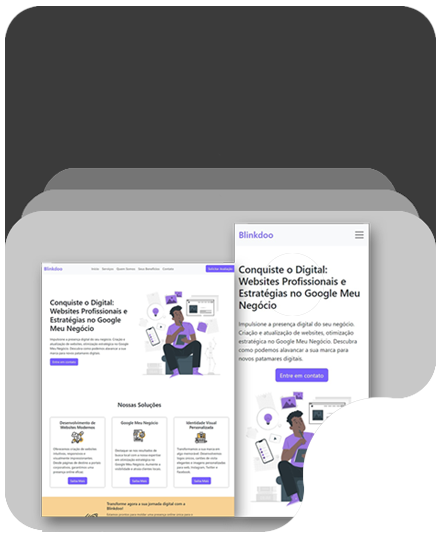
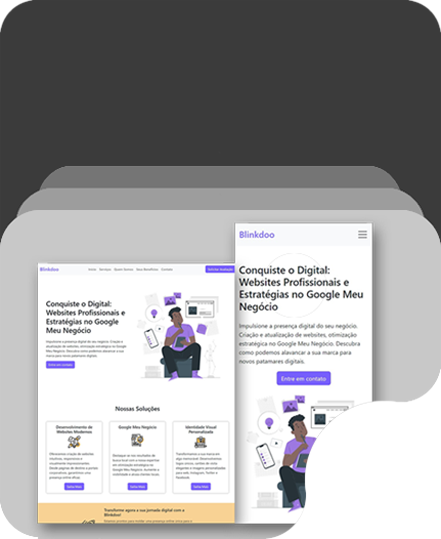
update

diff --git a/index.html b/index.html
@@ -45,7 +45,6 @@
                         <li class="nav-item">
                             <a class="nav-link" href="#">Motivações</a>
                         </li>
-
                     </ul>
                 </div>
             </div>
@@ -54,7 +53,6 @@
     <main>
         <section
             class="container d-flex flex-column flex-lg-row align-items-center text-center text-md-start justify-content-between">
-
             <div class="col-lg-3 order-1 order-lg-0 mt-3 mt-md-0 ">
                 <p>Meu portfólio pessoal, destacando minhas habilidades.</p>
             </div>
@@ -65,29 +63,235 @@
             <div class=" col-lg-3 text-center order-2 order-lg-2">
                 <div class="color-orange fs-1">★★★★★</div>
                 <button class="btn btn-margin">paoskdpo</button>
-                <button class="btn btn-margin">paoskdpo</button>
             </div>
         </section>
-        <section class="container-fluid rounded-5 color-black text-white ">
-            <div class="d-flex flex-column flex-md-row justify-content-between p-4 pt-5 border-bottom border-dark-subtle">
+        <section class="container-fluid rounded-5 color-black text-white pb-3">
+            <div
+                class="d-flex flex-column flex-md-row justify-content-between p-4 pt-5 border-bottom border-dark-subtle">
                 <h2 class="col-12 col-md-6">Minhas Soluções</h2>
                 <p class="col-12 col-md-6 col-lg-3 text-md-end">Algumas soluções que coloco à disposição, sempre
                     priorizando a qualidade em cada projeto.</p>
             </div>
+            <div class="d-flex flex-column flex-lg-row align-items-center justify-content-evenly gap-3 mt-3">
+                <div class="card-solution card d-flex color-black-fade align-items-center">
+                    <h5 class="p-4 col-12 fs-4 position-absolute border-bottom border-dark-subtle text-start z-1">
+                        Landing Page</h5>
+                    <img class="col-12 z-0" src="image/card-landing-page.png" alt="">
+                    <a href="">
+                        <button class="btn-card z-1 fs-1 text-center">
+                            <div class="pb-2">↗</div>
+                        </button>
+                    </a>
+                </div>
+                <div class="card-solution card d-flex  align-items-center">
+                    <h5 class="p-4 col-12 fs-4 position-absolute border-bottom  text-start z-1">Google Meu Negócio </h5>
+                    <img class="col-12 z-0" src="image/card-landing-page-google-meu-negocio.png" alt="">
+                    <a href="">
+                        <button class="btn-card z-1 fs-1 text-center">
+                            <div class="pb-2">↗</div>
+                        </button>
+                    </a>
+                </div>
+                <div class="card-solution card d-flex color-black-fade align-items-center">
+                    <h5 class="p-4 col-12 fs-4 position-absolute border-bottom border-dark-subtle text-start z-1">UI/UX
+                        Design</h5>
+                    <img class="col-12 z-0" src="image/card-ui-ux.png" alt="">
+                    <a href="">
+                        <button class="btn-card z-1 fs-1 text-center">
+                            <div class="pb-2">↗</div>
+                        </button>
+                    </a>
+                </div>
+            </div>
+        </section>
+        <section class="container mt-5">
 
-            <div class="d-flex flex-column flex-lg-row align-items-center justify-content-center gap-3 mt-3">
-                <div class="card-solution card d-flex color-black-fade align-items-center">
-                    <h5 class="p-4 col-12 fs-3 position-absolute border-bottom border-dark-subtle text-start">Landing Page</h5>
-                    <button class="btn-card">o</button>
-                </div>
-                <div class="card-solution card d-flex color-black-fade align-items-center">
-                    <h5 class="p-4 col-12 fs-3 position-absolute border-bottom border-dark-subtle text-start">Landing Page</h5>
-                    <button class="btn-card">o</button>
-                </div>
-                <div class="card-solution card d-flex color-black-fade align-items-center">
-                    <h5 class="p-4 col-12 fs-3 position-absolute border-bottom border-dark-subtle text-start">Landing Page</h5>
-                    <button class="btn-card">o</button>
-                </div>
+            <div class="d-flex flex-column flex-md-row">
+                <img class="col-6 d-none d-lg-block" src="image/skills-2.png" alt="">
+                <div class="col-12 col-lg-6 d-flex flex-column gap-2">
+                    <h2 class="text-center">Minhas habilidades</h2>
+
+
+                    <div class="d-flex flex-column gap-2">
+                        <div class="d-flex flex-column flex-lg-row gap-2">
+                            <div class="col-12 col-lg-6 card card-skill p-3">
+                                <div class="d-flex justify-content-between">
+                                    <div class="d-flex flex-row align-items-center">
+                                        <div class="icon"> <i><img class="col-12" src="image/html.png" alt=""></i>
+                                        </div>
+                                        <div class="ms-2 fw-light">
+                                            <h6 class="mb-0">HTML</h6> <span>Intermediário</span>
+                                        </div>
+                                    </div>
+                                    <div class="badge"> <span>Web</span> </div>
+                                </div>
+                                <div class="mt-4">
+                                    <h3 class="heading fs-4">Linguagem de Marcação</h3>
+                                    <div class="mt-4">
+                                        <div class="progress">
+                                            <div class="progress-bar" role="progressbar" style="width: 85%"
+                                                aria-valuenow="50" aria-valuemin="0" aria-valuemax="100"></div>
+                                        </div>
+                                    </div>
+                                </div>
+                            </div>
+                            <div class="col-12 col-lg-6 card card-skill p-3">
+                                <div class="d-flex justify-content-between">
+                                    <div class="d-flex flex-row align-items-center">
+                                        <div class="icon"> <i><img class="col-12" src="image/css.png" alt=""></i> </div>
+                                        <div class="ms-2 fw-light">
+                                            <h6 class="mb-0">CSS</h6> <span>Intermediário</span>
+                                        </div>
+                                    </div>
+                                    <div class="badge"> <span>Web</span> </div>
+                                </div>
+                                <div class="mt-4">
+                                    <h3 class="heading fs-4">Estilo e Design</h3>
+                                    <div class="mt-4">
+                                        <div class="progress">
+                                            <div class="progress-bar" role="progressbar" style="width: 85%"
+                                                aria-valuenow="50" aria-valuemin="0" aria-valuemax="100"></div>
+                                        </div>
+                                    </div>
+                                </div>
+                            </div>
+                        </div>
+                        <div class="d-flex flex-column flex-lg-row gap-2">
+                            <div class="col-12 col-lg-6 card card-skill p-3">
+                                <div class="d-flex justify-content-between">
+                                    <div class="d-flex flex-row align-items-center">
+                                        <div class="icon"> <i><img class="col-12" src="image/bootstrap.png" alt=""></i>
+                                        </div>
+                                        <div class="ms-2 fw-light">
+                                            <h6 class="mb-0">Bootstrap</h6> <span>Intermediário</span>
+                                        </div>
+                                    </div>
+                                    <div class="badge"> <span>Fw</span> </div>
+                                </div>
+                                <div class="mt-4">
+                                    <h3 class="heading fs-4">Frameworks Front-End</h3>
+                                    <div class="mt-4">
+                                        <div class="progress">
+                                            <div class="progress-bar" role="progressbar" style="width: 60%"
+                                                aria-valuenow="50" aria-valuemin="0" aria-valuemax="100"></div>
+                                        </div>
+                                    </div>
+                                </div>
+                            </div>
+                            <div class="col-12 col-lg-6 card card-skill p-3">
+                                <div class="d-flex justify-content-between">
+                                    <div class="d-flex flex-row align-items-center">
+                                        <div class="icon"> <i><img class="col-12" src="image/javascript.png" alt=""></i>
+                                        </div>
+                                        <div class="ms-2 fw-light">
+                                            <h6 class="mb-0">JavaScript</h6> <span>Intermediário</span>
+                                        </div>
+                                    </div>
+                                    <div class="badge"> <span>Web</span> </div>
+                                </div>
+                                <div class="mt-4">
+                                    <h3 class="heading fs-4">Desenvolvimento Web</h3>
+                                    <div class="mt-4">
+                                        <div class="progress">
+                                            <div class="progress-bar" role="progressbar" style="width: 35%"
+                                                aria-valuenow="50" aria-valuemin="0" aria-valuemax="100"></div>
+                                        </div>
+                                    </div>
+                                </div>
+                            </div>
+                        </div>
+                        <div class="d-flex flex-column flex-lg-row gap-2">
+                            <div class="col-12 col-lg-6 card card-skill p-3">
+                                <div class="d-flex justify-content-between">
+                                    <div class="d-flex flex-row align-items-center">
+                                        <div class="icon"> <i><img class="col-12" src="image/photoshop.png" alt=""></i>
+                                        </div>
+                                        <div class="ms-2 fw-light">
+                                            <h6 class="mb-0">Photoshop</h6> <span>Intermediário</span>
+                                        </div>
+                                    </div>
+                                    <div class="badge"> <span>Design</span> </div>
+                                </div>
+                                <div class="mt-4">
+                                    <h3 class="heading fs-4">Edição de imagens</h3>
+                                    <div class="mt-4">
+                                        <div class="progress">
+                                            <div class="progress-bar" role="progressbar" style="width: 50%"
+                                                aria-valuenow="50" aria-valuemin="0" aria-valuemax="100"></div>
+                                        </div>
+                                    </div>
+                                </div>
+                            </div>
+                            <div class="col-12 col-lg-6 card card-skill p-3">
+                                <div class="d-flex justify-content-between">
+                                    <div class="d-flex flex-row align-items-center">
+                                        <div class="icon"> <i><img class="col-12" src="image/gmb.png" alt=""></i>
+                                        </div>
+                                        <div class="ms-2 fw-light">
+                                            <h6 class="mb-0">Google My Business</h6> <span>Intermediário</span>
+                                        </div>
+                                    </div>
+                                    <div class="badge"> <span>GMB</span> </div>
+                                </div>
+                                <div class="mt-4">
+                                    <h3 class="heading fs-4">Gestão de Presença Online</h3>
+                                    <div class="mt-4">
+                                        <div class="progress">
+                                            <div class="progress-bar" role="progressbar" style="width: 75%"
+                                                aria-valuenow="50" aria-valuemin="0" aria-valuemax="100"></div>
+                                        </div>
+                                    </div>
+                                </div>
+                            </div>
+                        </div>
+
+                    </div>
+
+
+                    <!-- <div class="d-flex col-12 justify-content-around">
+                        <div class="card mx-auto p-2 d-flex align-items-center">
+                            <div class="d-flex">
+                                <div class="color-orange">★★★★</div>★
+                            </div>
+                            <p>Html</p>
+                        </div>
+                        <div class="card mx-auto p-2 d-flex align-items-center">
+                            <div class="d-flex">
+                                <div class="color-orange">★★★★</div>★
+                            </div>
+                            <p>Css</p>
+                        </div>
+                        <div class="card mx-auto p-2 d-flex align-items-center">
+                            <div class="d-flex">
+                                <div class="color-orange">★★</div>★★★
+                            </div>
+                            <p>JavaScript</p>
+                        </div>
+                    </div>
+                    <div>
+                        <div class="d-flex">
+                            <div class="color-orange">★★★</div>★★
+                        </div>
+                        <p>Bootstrap</p>
+                    </div>
+                    <div>
+                        <div class="d-flex">
+                            <div class="color-orange">★★★</div>★★
+                        </div>
+                        <p>Photoshop</p>
+                    </div>
+                    <div>
+                        <div class="d-flex">
+                            <div class="color-orange">★★★★</div>★
+                        </div>
+                        <p>Google My Business</p>
+                    </div>
+                    <div>
+                        <div class="d-flex">
+                            <div class="color-orange">★★★</div>★★
+                        </div>
+                        <p>Google Docs - Documentos, Planilhas, Apresentações Formulários</p>
+                    </div> -->
                 </div>
             </div>
         </section>

diff --git a/css/style.css b/css/style.css
@@ -54,10 +54,6 @@
     width: 20rem;
     background: transparent;
     border: none;
-    background-image: url('../image/card-landing-page.png');
-    background-size: cover;
-    background-repeat: no-repeat;
-    background-position: center;
 }
 
 .card-solution h5 {
@@ -79,6 +75,49 @@
     background-color: #ffaf64;
 }
 
+body {
+    background-color: #eee;
+}
+
+.card-skill {
+    border: none;
+    border-radius: 10px;
+}
+
+
+.icon {
+    width: 50px;
+    height: 50px;
+    border-radius: 15px;
+    display: flex;
+    align-items: center;
+    justify-content: center;
+}
+
+.badge span {
+    background-color: #ffe9d5;
+    width: 60px;
+    height: 25px;
+    padding-bottom: 3px;
+    border-radius: 5px;
+    display: flex;
+    color: #F68B29;
+    justify-content: center;
+    align-items: center;
+}
+
+.progress {
+    height: 10px;
+    border-radius: 10px;
+}
+
+.progress div {
+    background-color: #F68B29;
+}
+
+.carousel-control-prev-icon {
+    background-color: black;
+}
 
 
 @media (min-width: 991px) {
